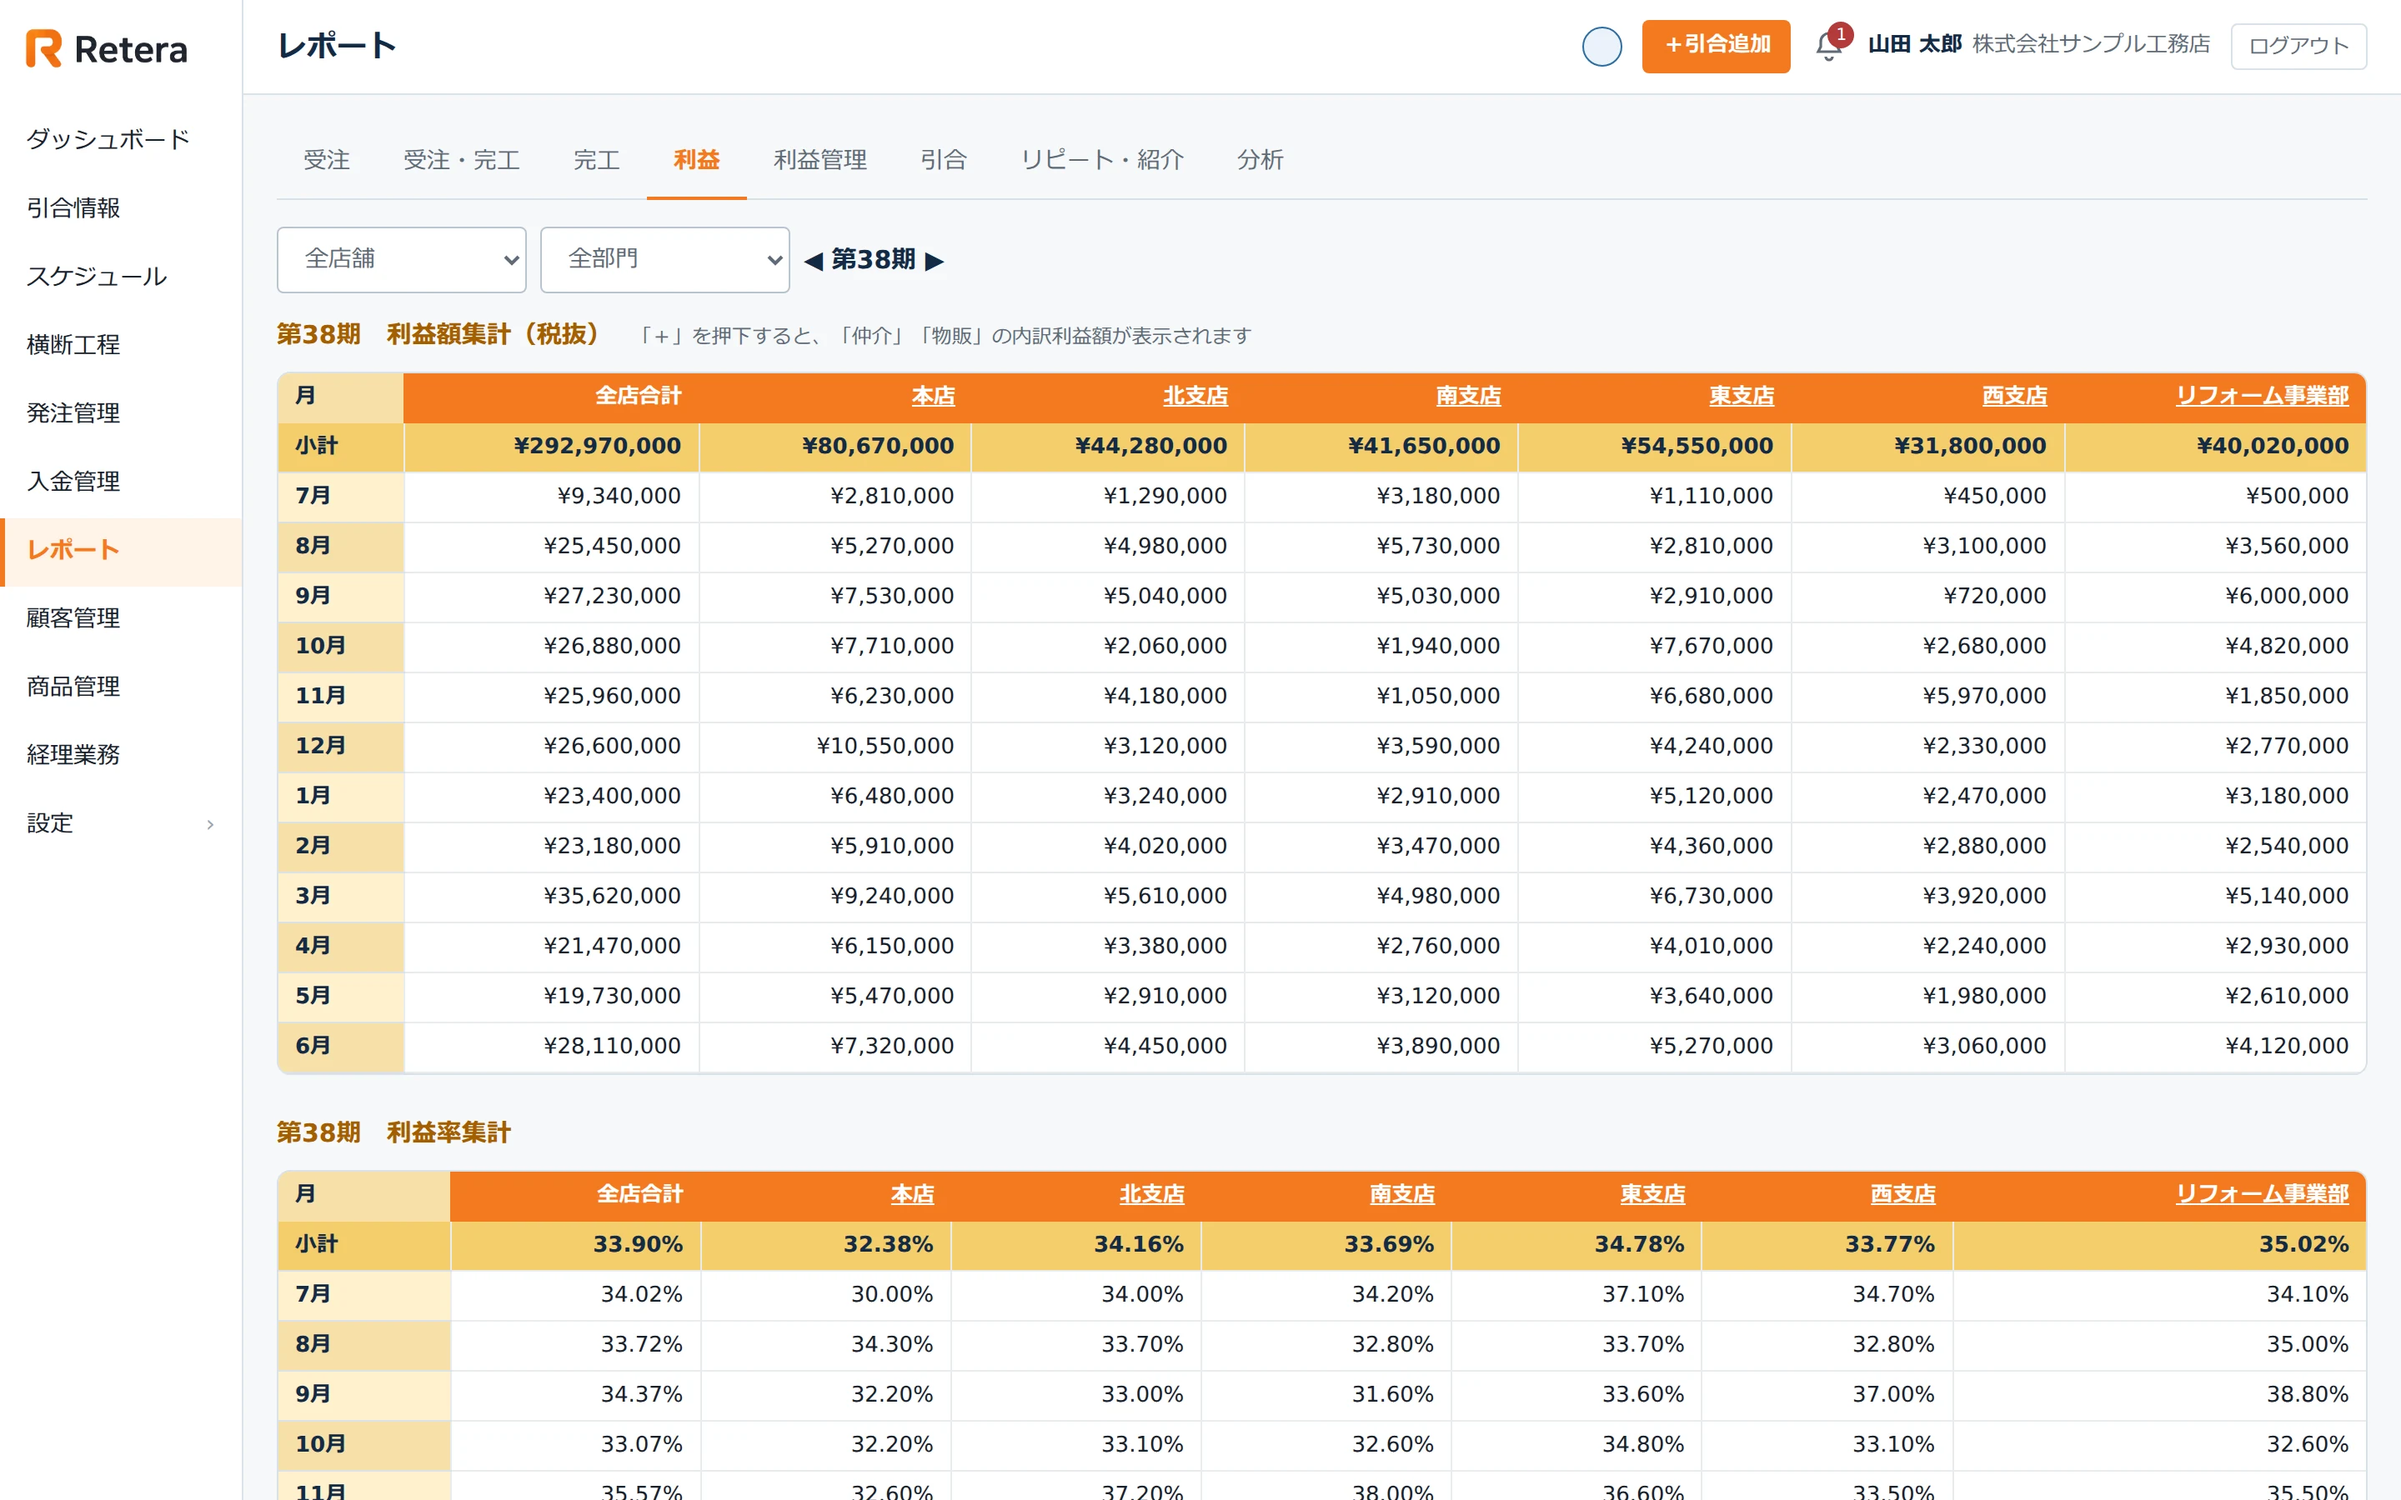
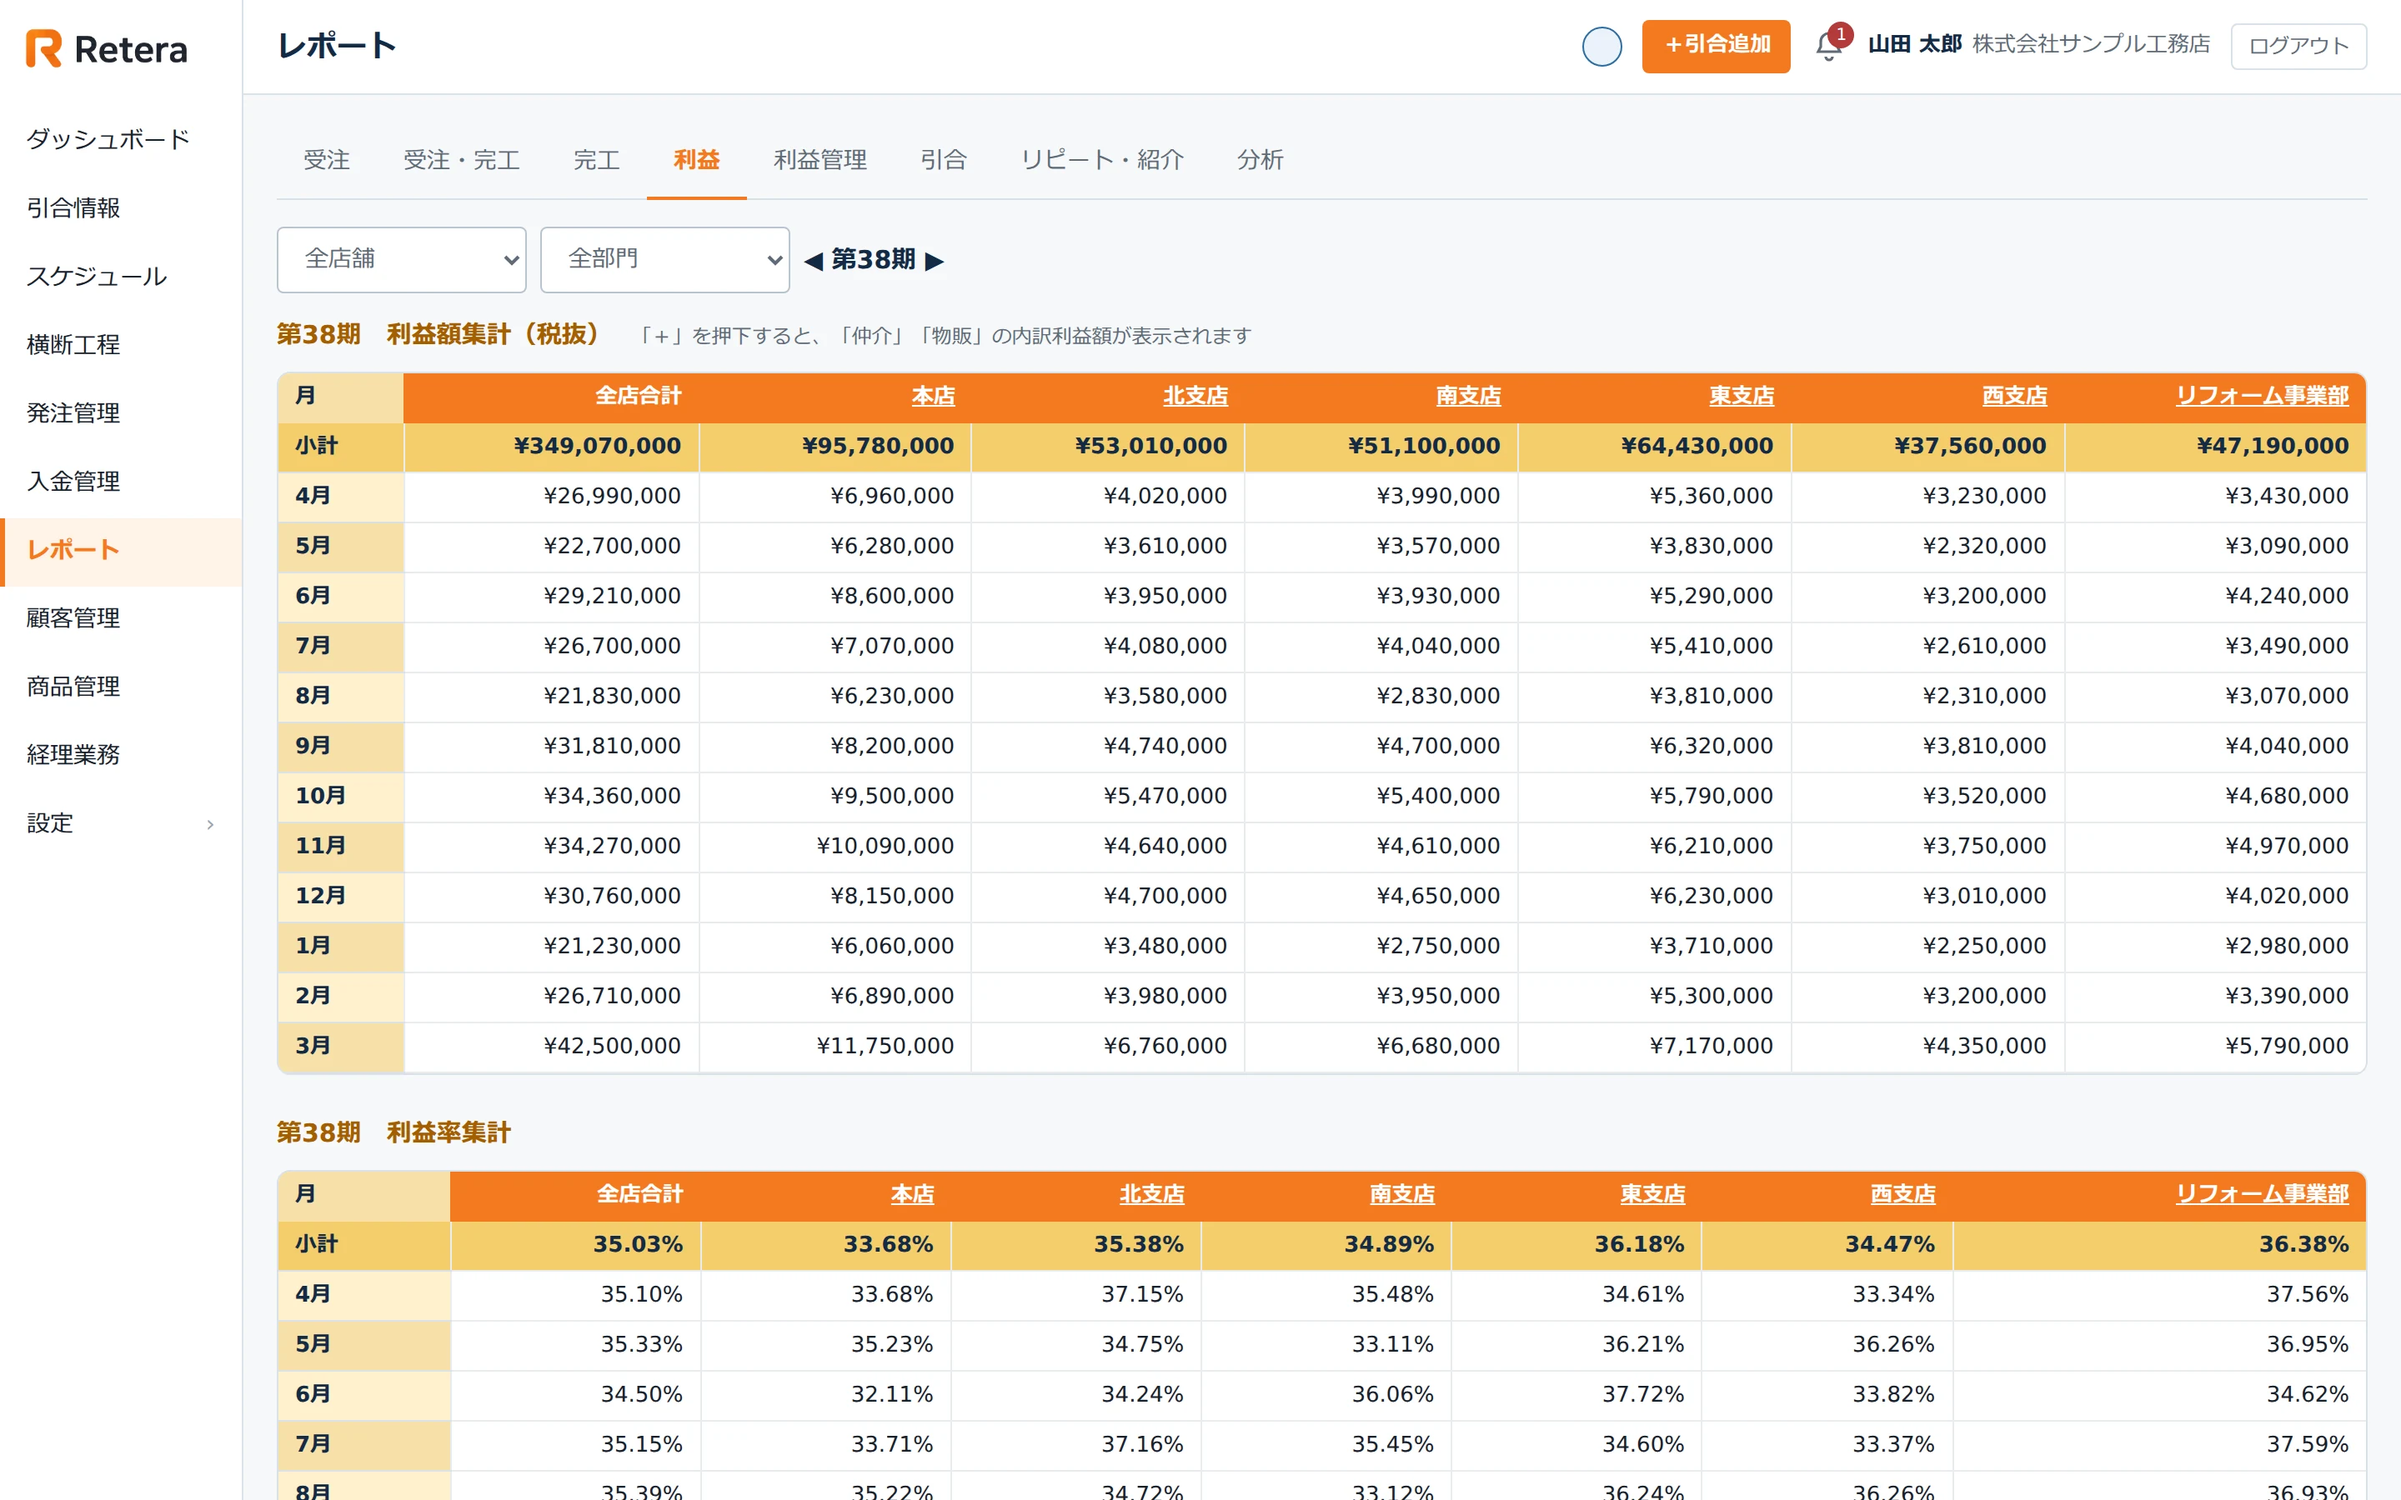
レポートを4月始まり・売上10億・利益率35%の想定に。期の設定を機能に追加

diff --git a/features.html b/features.html
@@ -318,6 +318,10 @@
         <p>社員ごとに期の売上目標と粗利目標を決められます。前期からのコピーも可。達成率は社員別と店舗別の両方で見られます。</p>
       </li>
       <li>
+        <h3>期の始まりと締め日は、会社ごとに</h3>
+        <p>決算期の始まり、締め日、受注をいつの売上として数えるかを、設定画面から変えられます。いつから適用するかを指定できるので、<span class="emph">過去の集計は変わりません。</span>変更した人と日付も残ります。</p>
+      </li>
+      <li>
         <h3>媒体別の効果</h3>
         <p>どの入口から来たお客様が契約に至っているか。引合の数だけでなく、契約額・利益額・利益率まで追えます。自社集客・手数料媒体・紹介系のグループ別に並びます。</p>
       </li>

diff --git a/style.css b/style.css
@@ -4704,7 +4704,3 @@ picture { display: contents; }
   .biz-points { grid-template-columns: repeat(3, 1fr); gap: 40px 40px; }
 }
 
-/* 第41回: §6 の項目も LTV 廃止で 4→3。右下を空けないため3カラムへ。 */
-@media (min-width: 861px) {
-  .ana-pts { grid-template-columns: repeat(3, 1fr); gap: 28px 40px; }
-}
